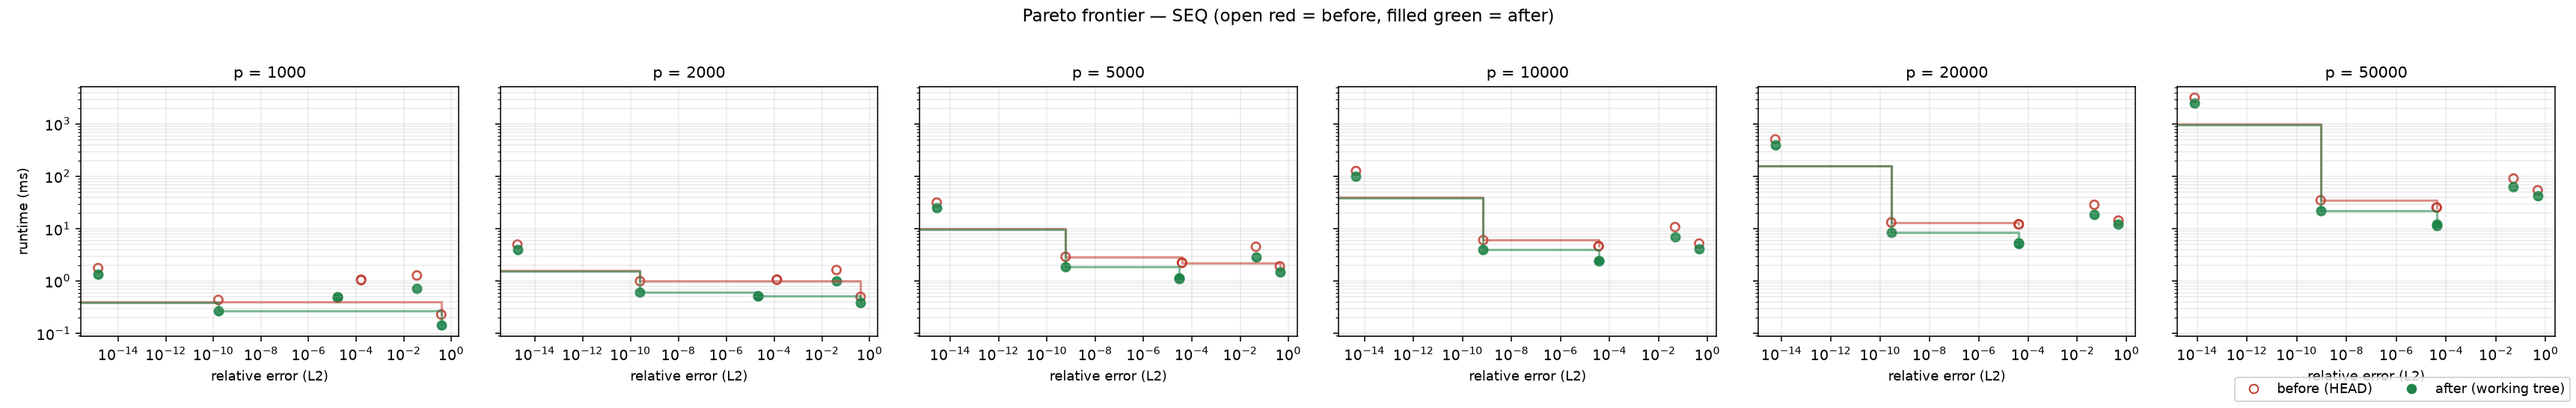
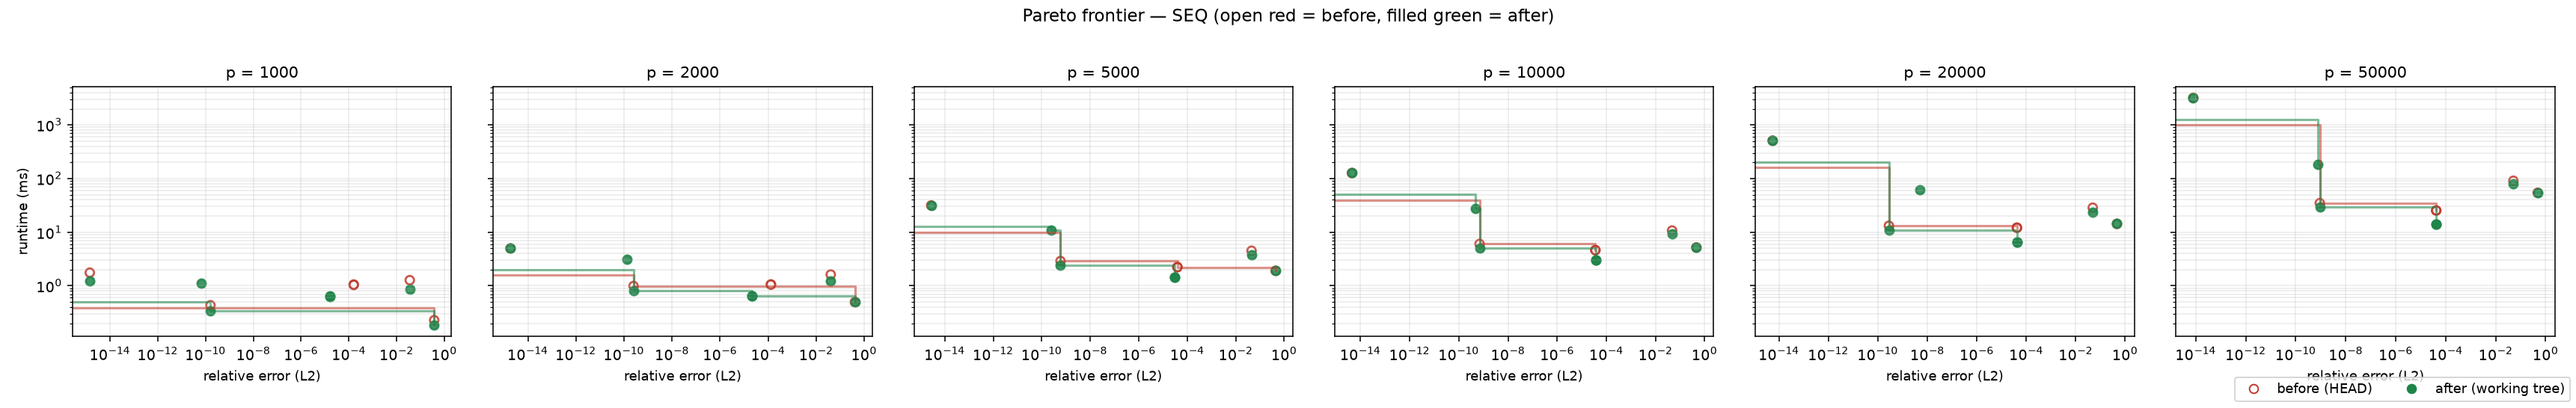
bench(pareto): regenerate artifacts with the hodlr row
bench_after.json now measures hodlr alongside the other methods; the
generated preset table is unchanged in its picks (chebcode keeps every
Rayon speed bin, the exact blocked family keeps accuracy) — hodlr wins no
bin on this spectrum family, as expected from its operating point. Plots
refreshed.

diff --git a/src/config/pareto_autogen.rs b/src/config/pareto_autogen.rs
@@ -1,5 +1,5 @@
 // AUTO-GENERATED by scripts/build_pareto_table.py — DO NOT EDIT.
-// Source: docs/pareto/bench_after.json (2026-08-23 11:49 UTC);
+// Source: docs/pareto/bench_after.json (2026-08-23 13:06 UTC);
 // Apple M-series (8 P-cores), MP-like spectra, eta = 1/sqrt(p).
 //
 // Preset intents:
@@ -30,37 +30,37 @@ const BINS: &[Bin] = &[
     Bin {
         p_max: 2000,
         speed_seq: StieltjesMethod::Fft2,
-        speed_par: StieltjesMethod::ChebCode,
+        speed_par: StieltjesMethod::BlockedTiled,
         acc_seq: StieltjesMethod::Blocked,
-        acc_par: StieltjesMethod::Blocked,
+        acc_par: StieltjesMethod::BlockedTiled,
     },
     Bin {
         p_max: 5000,
-        speed_seq: StieltjesMethod::Fft5,
+        speed_seq: StieltjesMethod::Fft2,
         speed_par: StieltjesMethod::ChebCode,
         acc_seq: StieltjesMethod::BlockedTiled,
         acc_par: StieltjesMethod::Blocked,
     },
     Bin {
         p_max: 10000,
+        speed_seq: StieltjesMethod::Fft5,
+        speed_par: StieltjesMethod::ChebCode,
+        acc_seq: StieltjesMethod::BlockedTiled,
+        acc_par: StieltjesMethod::BlockedTiled,
+    },
+    Bin {
+        p_max: 20000,
         speed_seq: StieltjesMethod::Fft2,
         speed_par: StieltjesMethod::ChebCode,
         acc_seq: StieltjesMethod::BlockedTiled,
         acc_par: StieltjesMethod::Blocked,
     },
     Bin {
-        p_max: 20000,
-        speed_seq: StieltjesMethod::Fft2,
-        speed_par: StieltjesMethod::ChebCode,
-        acc_seq: StieltjesMethod::Blocked,
-        acc_par: StieltjesMethod::Blocked,
-    },
-    Bin {
         p_max: 50000,
-        speed_seq: StieltjesMethod::Fft2,
+        speed_seq: StieltjesMethod::Fft5,
         speed_par: StieltjesMethod::ChebCode,
         acc_seq: StieltjesMethod::Blocked,
-        acc_par: StieltjesMethod::Blocked,
+        acc_par: StieltjesMethod::BlockedTiled,
     },
 ];
 
